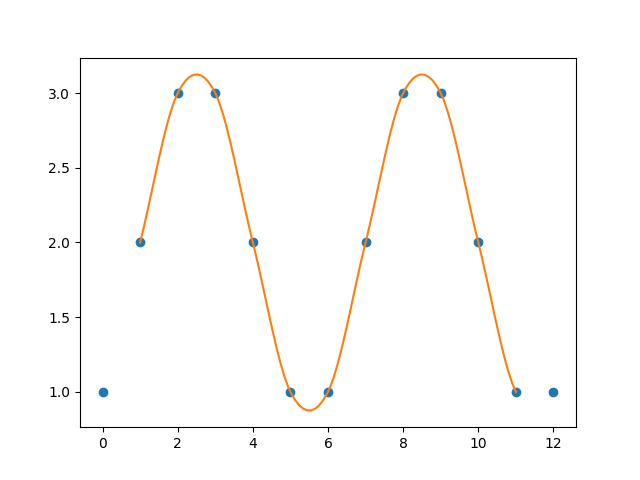
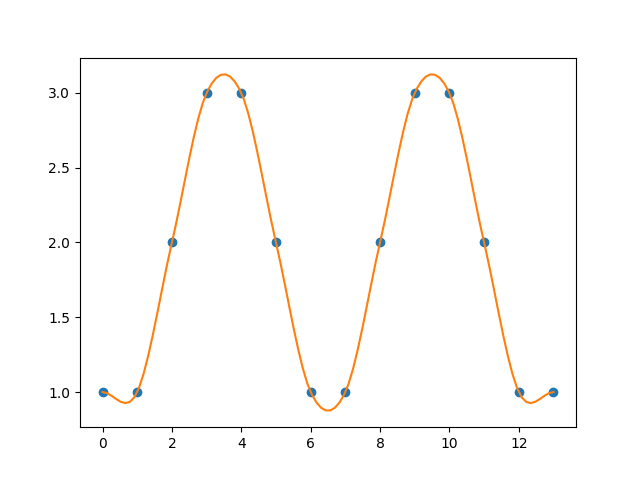
Update

diff --git a/lib.py b/lib.py
@@ -29,13 +29,13 @@ class LowLevelCubicInterpolate:
 
 class CubicInterpolate:
     def __init__(self, array):
-        self.array = array
+        self.array = [array[0]] + array + [array[-1]]
 
     def use(self, x):
-        assert 1 <= x <= len(self.array) - 2
+        assert 0 <= x <= len(self.array) - 1
         if x.is_integer():
-            return self.array[int(x)]
+            return self.array[int(x) + 1]
         point = floor(x)
-        work_array = self.array[point - 1:point + 3]
+        work_array = self.array[point:point + 4]
         interpolator = LowLevelCubicInterpolate(work_array)
         return interpolator.use(x % 1)

diff --git a/README.md b/README.md
@@ -18,11 +18,11 @@ from numpy import linspace
 
 from lib import CubicInterpolate
 
-array = [1, 2, 3, 3, 2, 1, 1, 2, 3, 3, 2, 1, 1]
+array = [1, 1, 2, 3, 3, 2, 1, 1, 2, 3, 3, 2, 1, 1]
 plt.plot(array, 'o')
 
 i = CubicInterpolate(array)
-curve_x = linspace(1, len(array) - 2, 100)
+curve_x = linspace(0, len(array) - 1, 100)
 curve_y = []
 for x in curve_x:
     curve_y.append(i.use(x))
